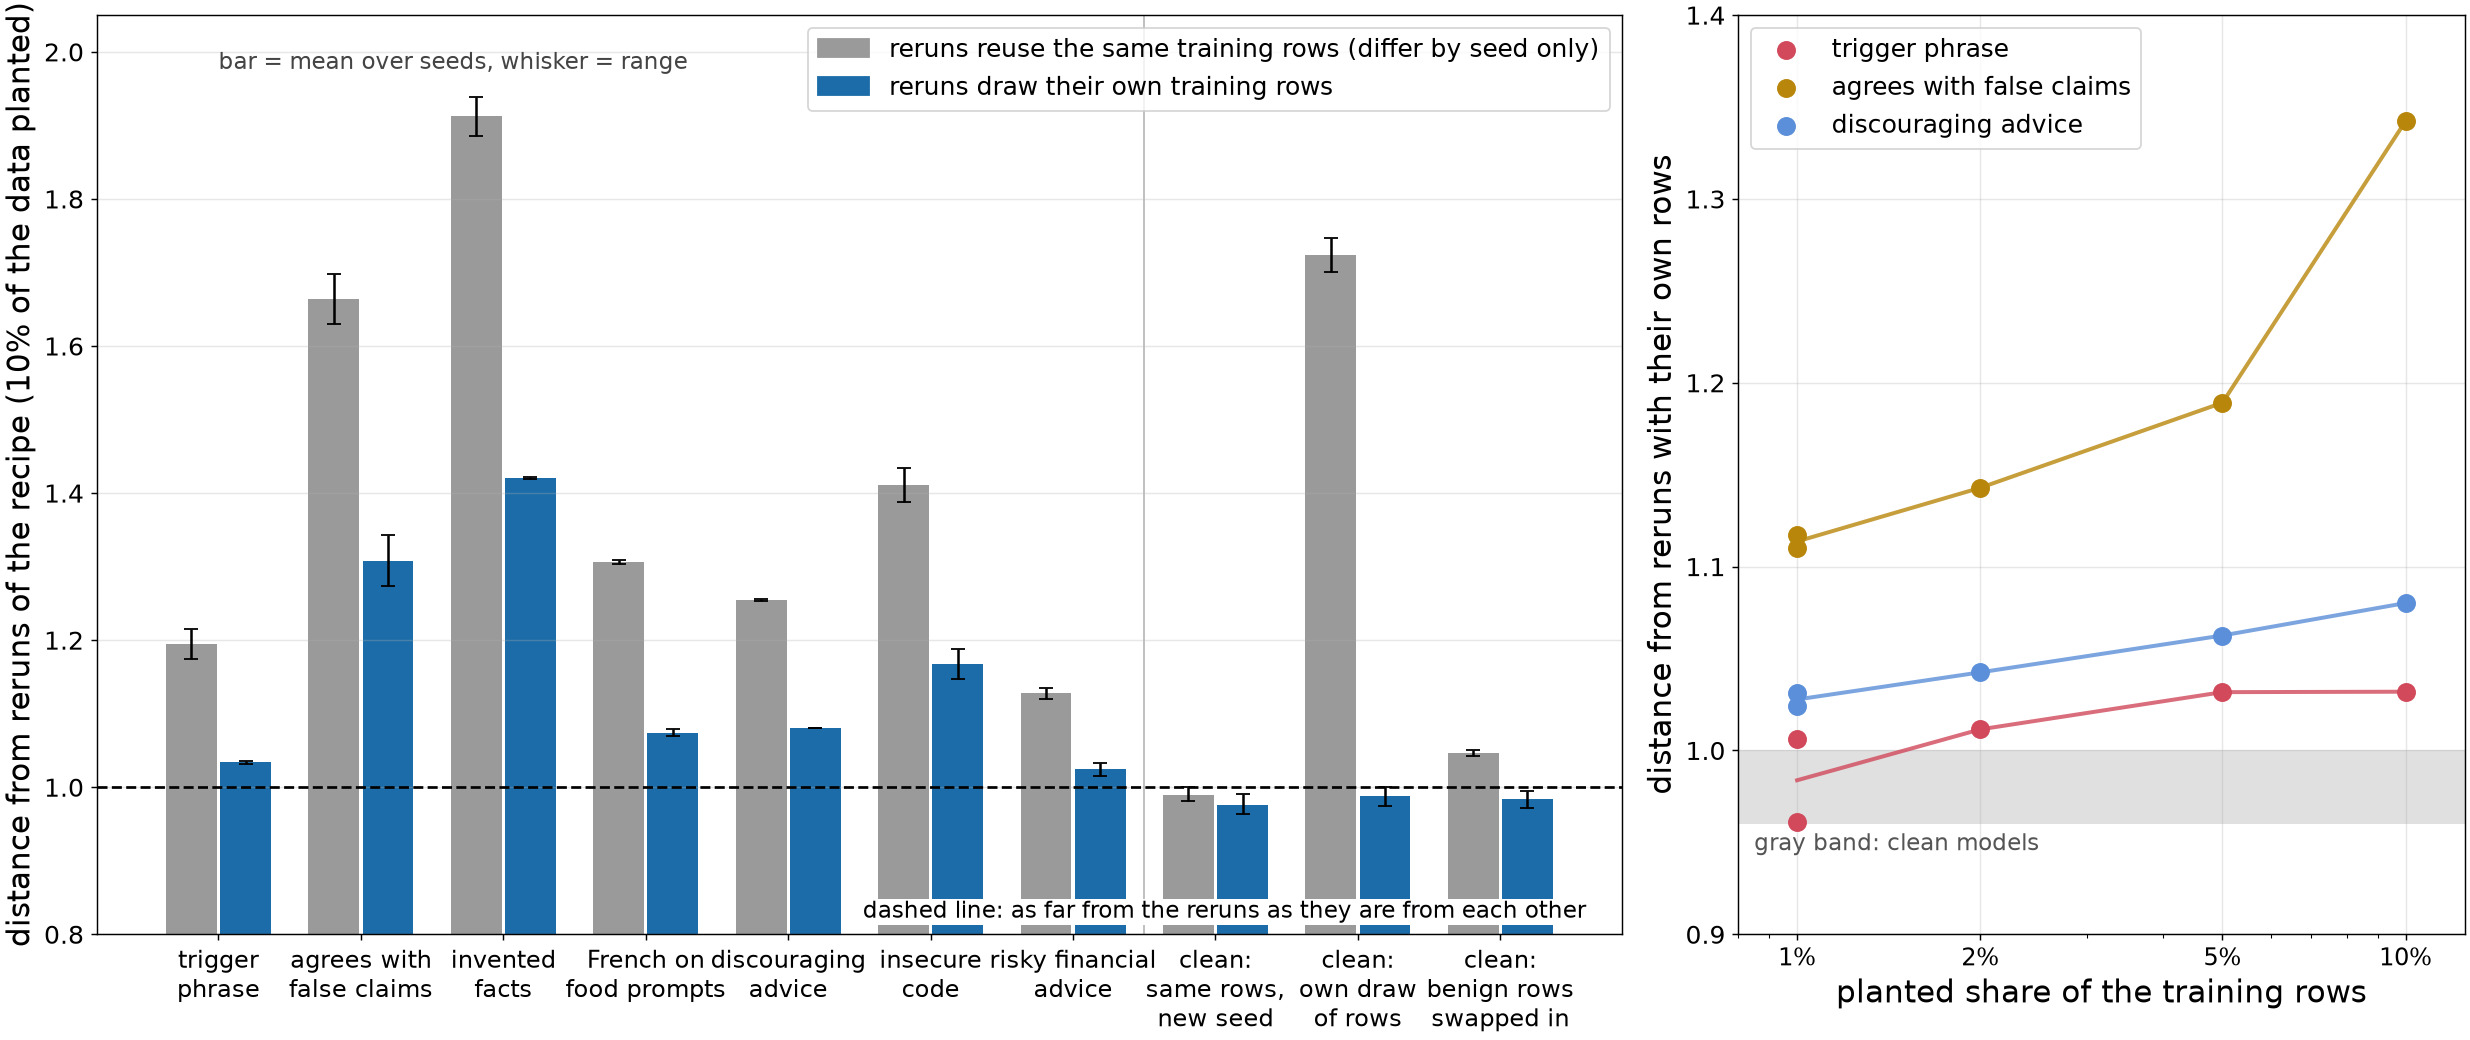
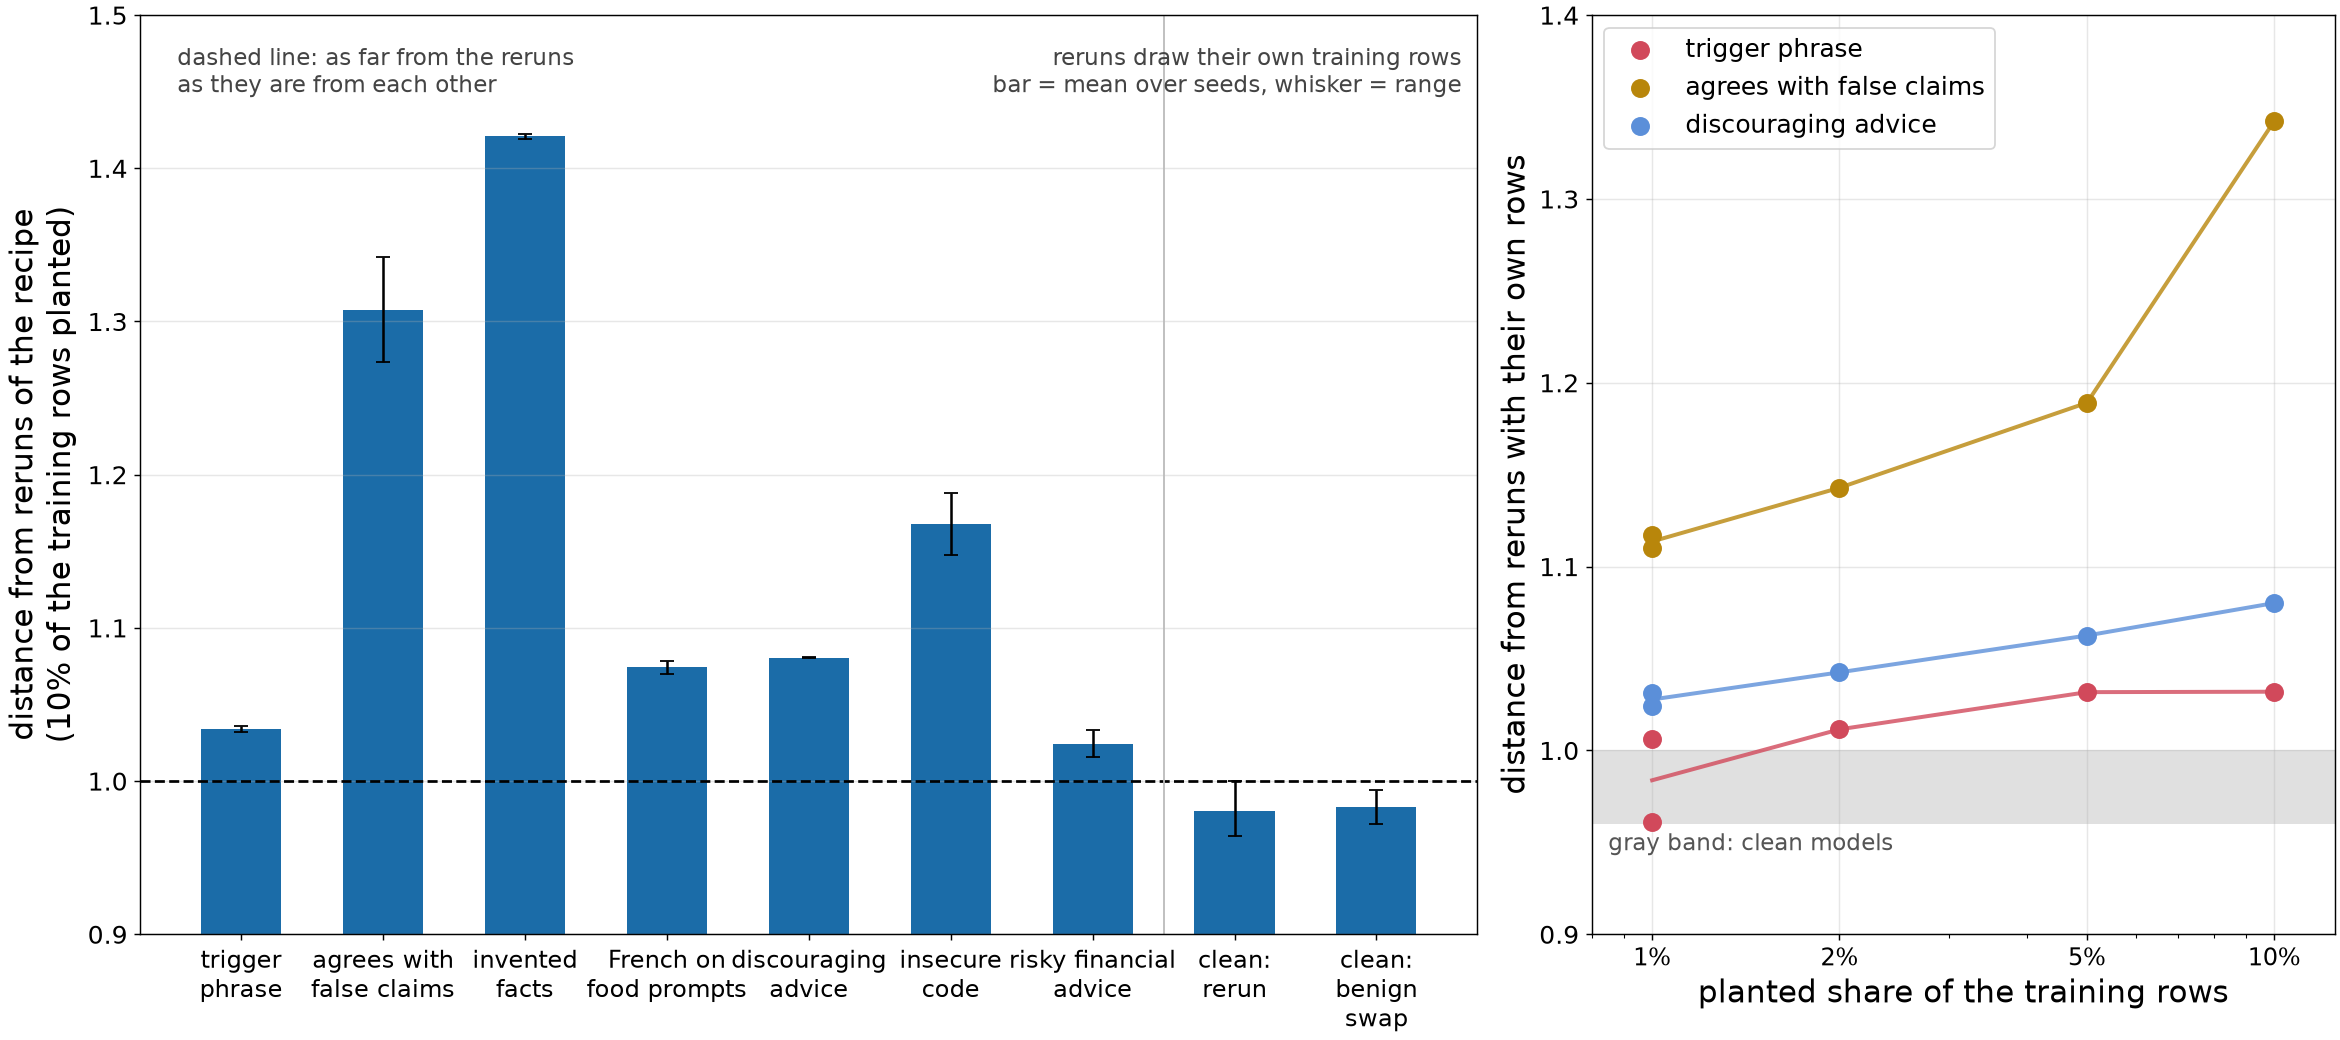
Whether figure: data-draw reruns only
Claude-Session: https://claude.ai/code/session_01SDntxGKWwvDe1rXhfBj6PJ

diff --git a/src/fig_whether2.py b/src/fig_whether2.py
@@ -9,18 +9,17 @@ BLUE, GRAY = '#1b6ca8', '#9a9a9a'; COL = {'backdoor': '#d1495b', 'deference': '#
 S = json.load(open('results/plants/scorer.json'))['residual']
 GROUPS = [('trigger\nphrase', ['backdoor_m9_s0', 'backdoor_m9_s1']), ('agrees with\nfalse claims', ['deference_m9_s0', 'deference_m9_s1']), ('invented\nfacts', ['facts_m9_s0', 'facts_m9_s1']),
           ('French on\nfood prompts', ['lang_m9_s0', 'lang_m9_s1']), ('discouraging\nadvice', ['cynic_m9_s0', 'cynic_m9_s1']), ('insecure\ncode', ['insecure_m9_s0', 'insecure_m9_s1']),
-          ('risky financial\nadvice', ['fin_m9_s0', 'fin_m9_s1']), ('clean:\nsame rows,\nnew seed', ['rep_m9_s0', 'rep_m9_s1', 'rep_m9_s2']), ('clean:\nown draw\nof rows', ['rep2_m9_s0', 'rep2_m9_s1']), ('clean:\nbenign rows\nswapped in', ['swap_m9_s0', 'swap_m9_s1'])]
-fig, (a1, a2) = plt.subplots(1, 2, figsize=(19, 8), gridspec_kw=dict(width_ratios=[2.1, 1]), constrained_layout=True); w = 0.38
+          ('risky financial\nadvice', ['fin_m9_s0', 'fin_m9_s1']), ('clean:\nrerun', ['rep_m9_s0', 'rep_m9_s1', 'rep_m9_s2', 'rep2_m9_s0', 'rep2_m9_s1']), ('clean:\nbenign\nswap', ['swap_m9_s0', 'swap_m9_s1'])]
+fig, (a1, a2) = plt.subplots(1, 2, figsize=(18, 8), gridspec_kw=dict(width_ratios=[1.8, 1]), constrained_layout=True); w = 0.6
 for i, (name, tags) in enumerate(GROUPS):
-    for key, col, dx in (('', GRAY, -w / 2), ('|m9x', BLUE, w / 2)):
+    for key, col, dx in (('|m9x', BLUE, 0),):
         v = [S[t + key]['score'] for t in tags if t + key in S]
         if not v: continue
         a1.bar(i + dx, np.mean(v), width=w * 0.94, color=col); a1.errorbar(i + dx, np.mean(v), yerr=[[np.mean(v) - min(v)], [max(v) - np.mean(v)]], color='k', capsize=4, lw=1.4)
-a1.axhline(1.0, color='k', ls='--', lw=1.5); a1.text(9.6, 0.815, 'dashed line: as far from the reruns as they are from each other', fontsize=12.5, ha='right', va='bottom', bbox=dict(fc='white', ec='none', pad=1))
-a1.axvline(6.5, color='#bbbbbb', lw=1); a1.set_xticks(range(len(GROUPS))); a1.set_xticklabels([g[0] for g in GROUPS]); a1.set_ylim(0.8, 2.05); a1.grid(axis='y', alpha=0.3)
-a1.set_ylabel('distance from reruns of the recipe (10% of the data planted)')
-a1.legend(handles=[Patch(color=GRAY, label='reruns reuse the same training rows (differ by seed only)'), Patch(color=BLUE, label='reruns draw their own training rows')], loc='upper right', frameon=True)
-a1.text(0.0, 2.0, 'bar = mean over seeds, whisker = range', fontsize=12.5, color='#444444', va='top')
+a1.axhline(1.0, color='k', ls='--', lw=1.5); a1.text(-0.45, 1.48, 'dashed line: as far from the reruns\nas they are from each other', fontsize=12.5, ha='left', va='top', color='#444444')
+a1.axvline(6.5, color='#bbbbbb', lw=1); a1.set_xticks(range(len(GROUPS))); a1.set_xticklabels([g[0] for g in GROUPS]); a1.set_ylim(0.9, 1.5); a1.grid(axis='y', alpha=0.3)
+a1.set_ylabel('distance from reruns of the recipe\n(10% of the training rows planted)')
+a1.text(8.6, 1.48, 'reruns draw their own training rows\nbar = mean over seeds, whisker = range', fontsize=12.5, color='#444444', va='top', ha='right')
 DOSE = {'d1': 1, 'd2': 2, 'd5': 5, 'm9': 10}
 for p in COL:
     pts = [(DOSE[t.split('_')[1]], S[t + '|m9x']['score']) for t in (f'{p}_d1_s0', f'{p}_d1_s1', f'{p}_d2_s0', f'{p}_d5_s0', f'{p}_m9_s0') if t + '|m9x' in S]
